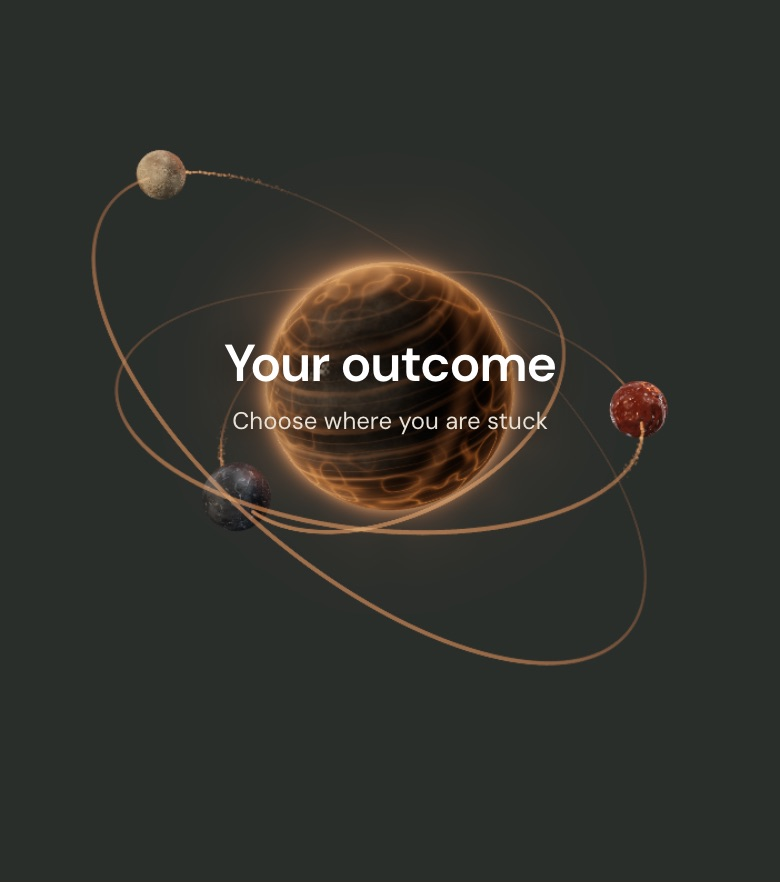
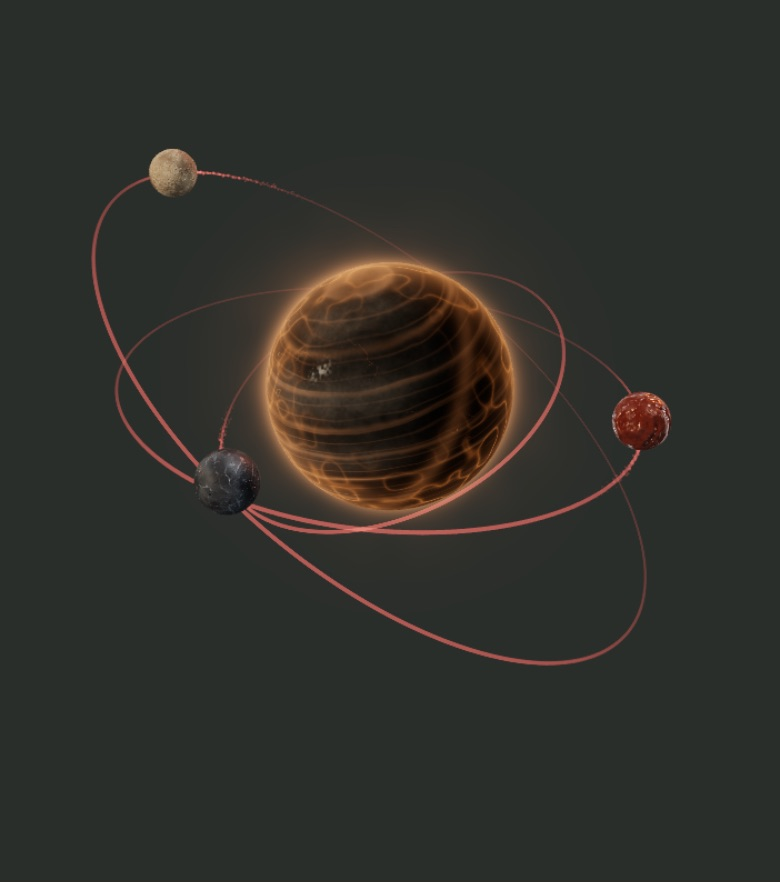
feat(#5): orbit lines and dust take the brand red
Brandon: "Can we use the same brand red for the orbit lines". The orbit traces
(copper 0xd08a52) and the dust wake (0xe39a5f) now use ORBIT_RED = 0xf16b65,
the accent-on-ground red that the motion lines use. The poster stills are
re-rendered from the new scene, so the pre-load and no-WebGL images match.

Agent: Claude Code (claude-opus-5-5)

diff --git a/src/lib/orbit/map-scene.ts b/src/lib/orbit/map-scene.ts
@@ -88,10 +88,13 @@ const RIM_DIR = new THREE.Vector3(2.6, 1.8, -6).normalize();
  * the far side (about 0.9 px). Depth-tested against the planet, additive,
  * brighter in front, soft at the silhouette, and stronger just behind its body.
  */
+/** Orbit lines and dust in the brand red on ground, matching the motion lines (Brandon, 2026-10-06). */
+const ORBIT_RED = 0xf16b65;
+
 function traceMaterial(opacity: number) {
   return new THREE.ShaderMaterial({
     uniforms: {
-      uColor: { value: new THREE.Color(0xd08a52) },
+      uColor: { value: new THREE.Color(ORBIT_RED) },
       uOpacity: { value: opacity },
       uBody: { value: new THREE.Vector3() },
       uNear: { value: 8 },
@@ -138,7 +141,7 @@ function drawOverTraces(root: THREE.Object3D) {
 function wakeMaterial() {
   return new THREE.ShaderMaterial({
     uniforms: {
-      uColor: { value: new THREE.Color(0xe39a5f) },
+      uColor: { value: new THREE.Color(ORBIT_RED) },
       uAlpha: { value: 0.5 },
       uSize: { value: 2 },
     },
